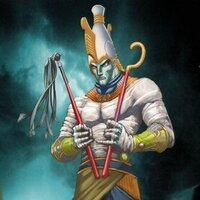
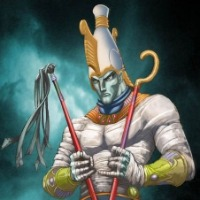
Fix

diff --git a/src/app/mock-champions.ts b/src/app/mock-champions.ts
@@ -48,8 +48,8 @@ export const CHAMPIONS: Champion[] = [
   },
   {
     pantheon: 'Egyptian',
-    name: 'Shakti',
-    avatar: baseImgUrl + 'shakti.jpg',
+    name: 'Osiris',
+    avatar: baseImgUrl + 'osiris.jpg',
     attack: baseAttack + Math.floor(Math.random() * 3) + 1,
     defence: baseDefence + Math.floor(Math.random() * 3) + 1,
     hp: baseHP + Math.floor(Math.random() * 3) + 1,
@@ -65,8 +65,8 @@ export const CHAMPIONS: Champion[] = [
   },
   {
     pantheon: 'Greek',
-    name: 'Posejdon',
-    avatar: baseImgUrl + 'posejdon.jpg',
+    name: 'Poseidon',
+    avatar: baseImgUrl + 'poseidon.jpg',
     attack: baseAttack + Math.floor(Math.random() * 3) + 1,
     defence: baseDefence + Math.floor(Math.random() * 3) + 1,
     hp: baseHP + Math.floor(Math.random() * 3) + 1,

diff --git a/src/app/pantheon/pantheon.component.html b/src/app/pantheon/pantheon.component.html
@@ -1,6 +1,8 @@
 <div *ngIf="pantheon">
     <h1 class="title">{{pantheon.name}}</h1>
 
+    <p class="hint">Pick three champions</p>
+
     <ul class="champions">
         <li *ngFor="let champion of pantheon.champions">
             <div 
@@ -28,12 +30,12 @@
     </ul>
 
     <div>
-        <div class="team" style="margin-bottom: 1em;">
+        <p class="hint">
             Your team: 
             <span *ngFor="let champion of selectedChampions">
                 {{champion.name}}
             </span>
-        </div>
+        </p>
 
         <button (click)="confirmTheTeamSquad()" [disabled]="selectedChampions.length !== requiredChampions">Confirm</button>
     </div>

diff --git a/src/app/pantheons/pantheons.component.html b/src/app/pantheons/pantheons.component.html
@@ -1,5 +1,7 @@
 <h1 class="title">{{ title }}</h1>
 
+<p class="hint">Choose your favorite pantheon</p>
+
 <ul class="pantheons">
     <li *ngFor="let pantheon of pantheons">
         <app-pantheon-detail [pantheon]="pantheon"></app-pantheon-detail>

diff --git a/src/app/pantheon/pantheon.component.sass b/src/app/pantheon/pantheon.component.sass
@@ -1,6 +1,9 @@
 .title
     font-size: 3em
 
+.hint
+    font-size: 1.4em
+
 .champions
     display: flex
     flex-wrap: wrap

diff --git a/src/app/pantheons/pantheons.component.sass b/src/app/pantheons/pantheons.component.sass
@@ -1,6 +1,9 @@
 .title
     font-size: 3em
 
+.hint
+    font-size: 1.4em
+
 .pantheons
     display: flex
     flex-wrap: wrap
